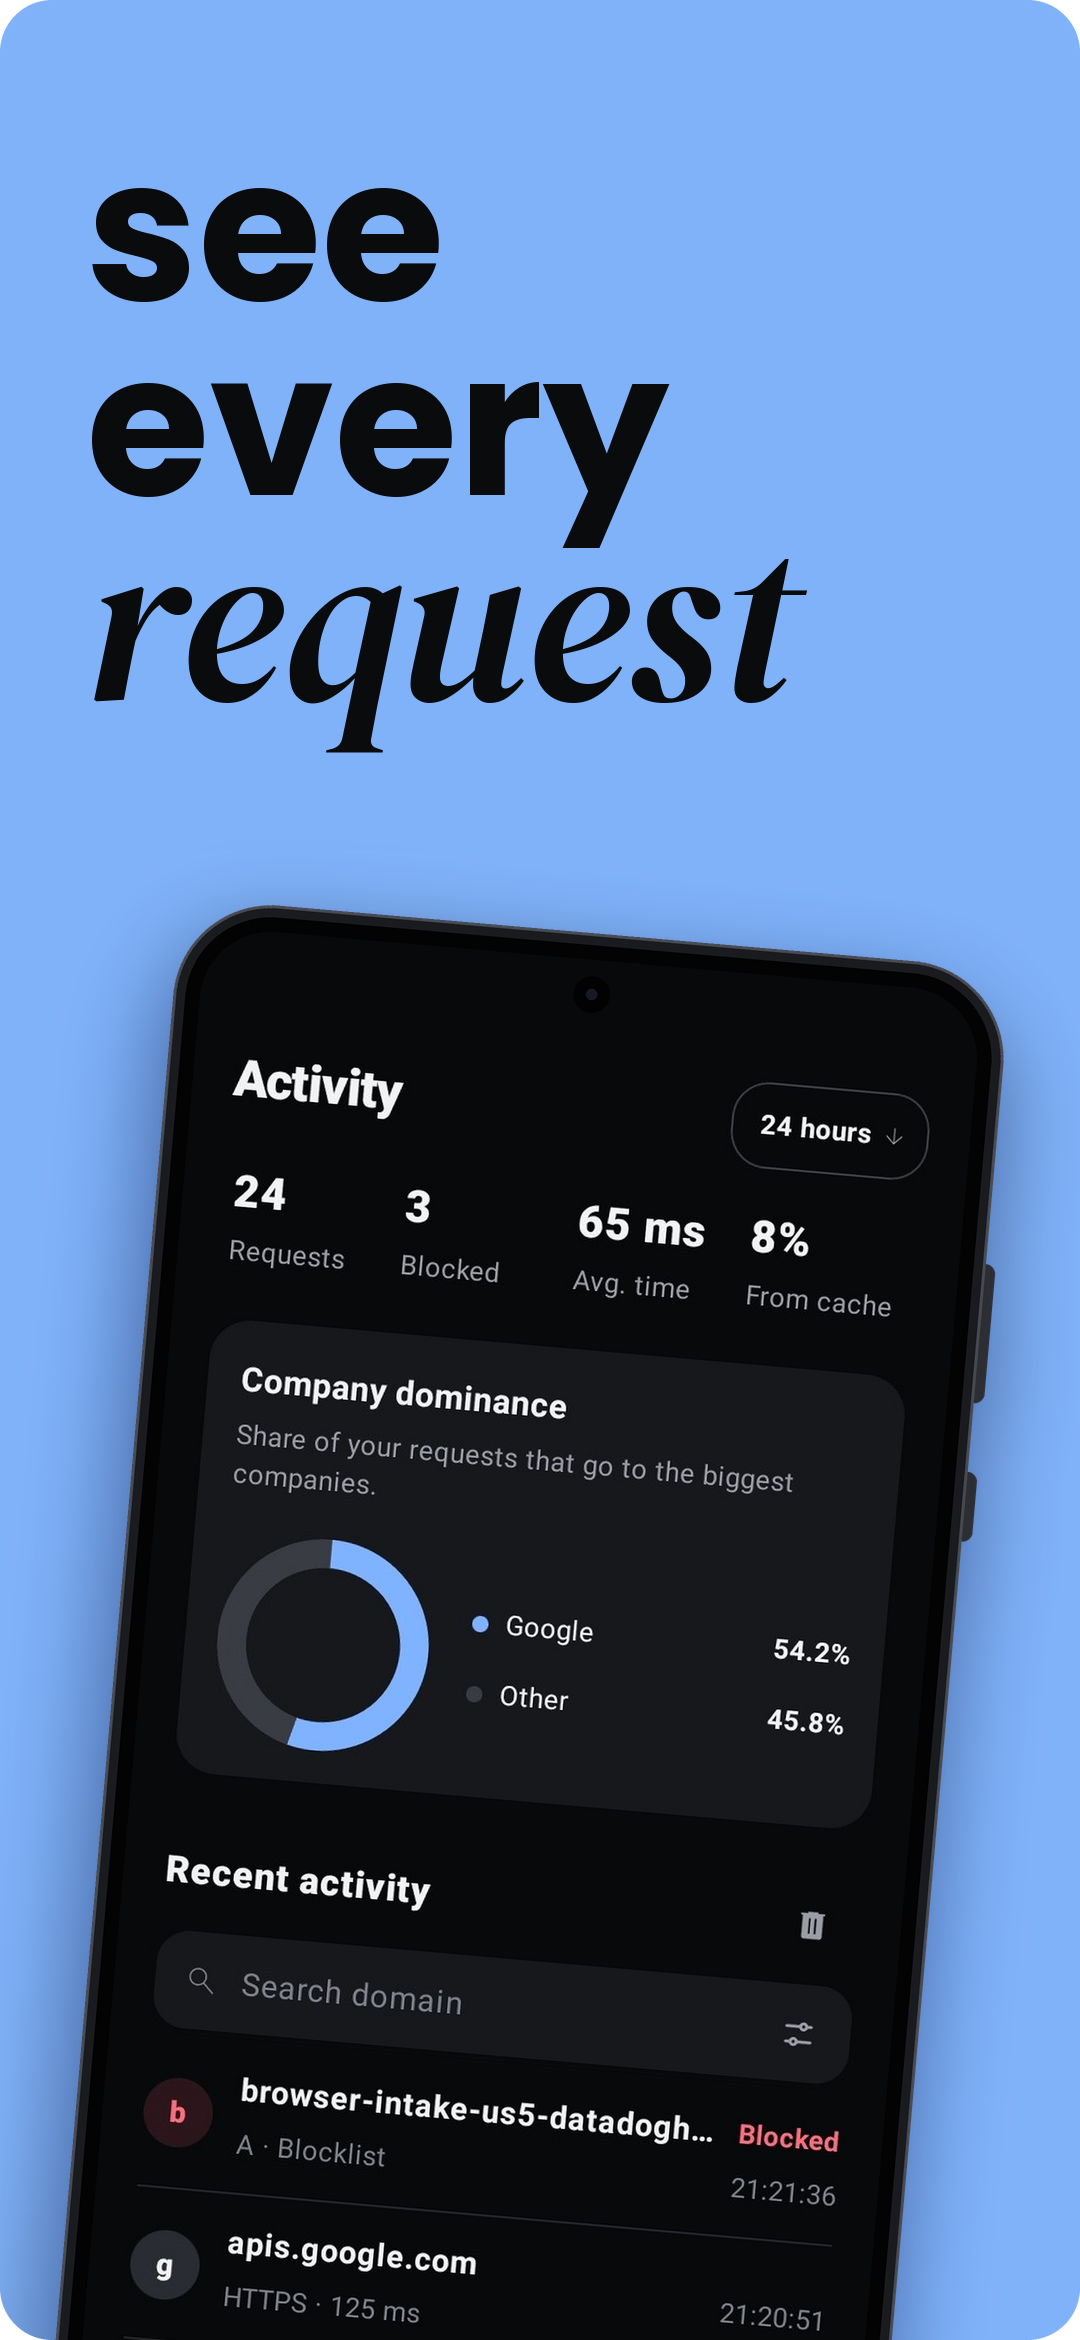
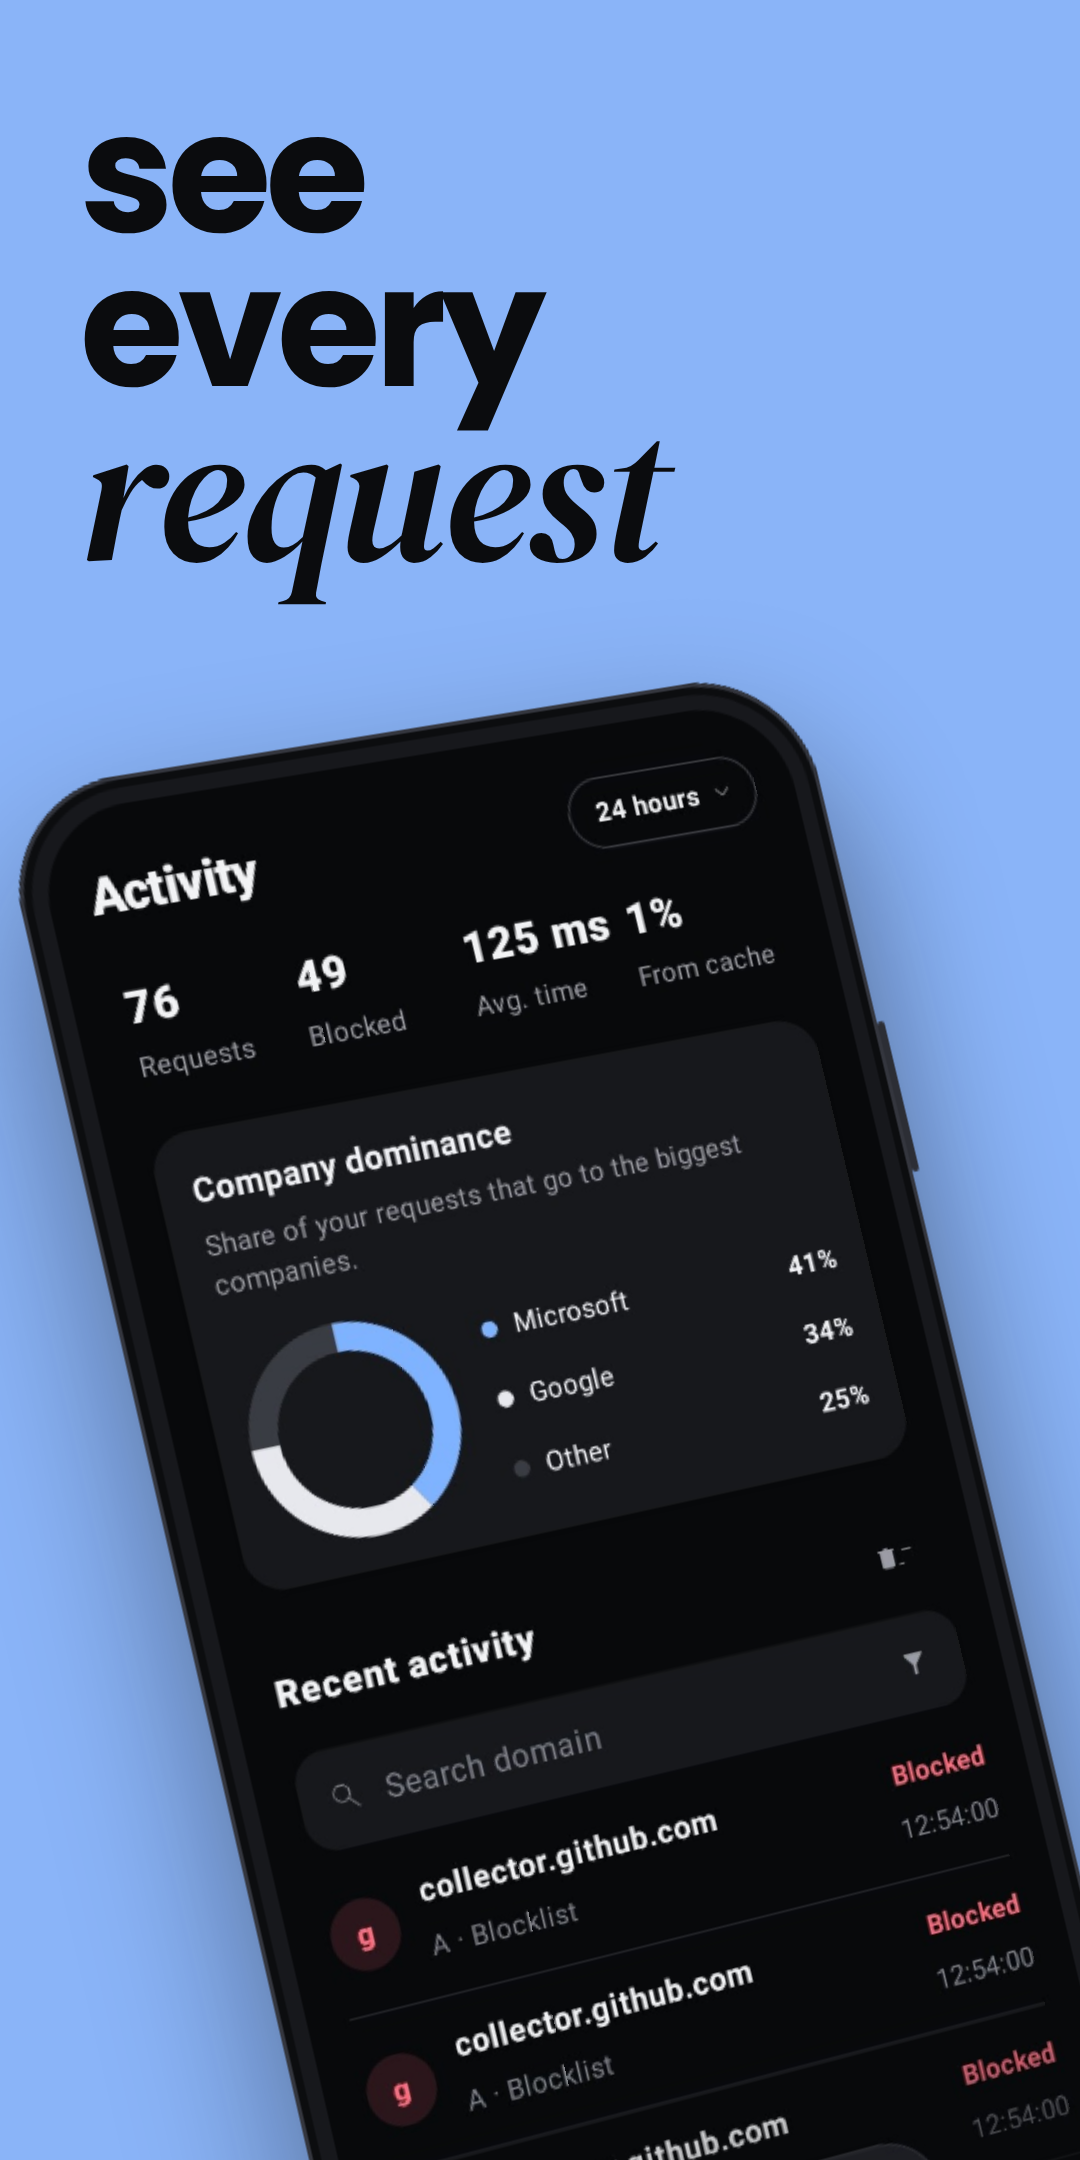
Update README screenshots

diff --git a/README.md b/README.md
@@ -21,10 +21,9 @@
 </p>
 
 <p align="center">
-  <img src="assets/screenshots/1-private-dns-control.png" width="160" alt="Private DNS control">
-  <img src="assets/screenshots/2-protected.png" width="160" alt="You're protected">
+  <img src="assets/screenshots/1-private-dns-left.png" width="160" alt="Private DNS in one tap"><img src="assets/screenshots/2-private-dns-right.png" width="160" alt="You're protected">
   <img src="assets/screenshots/3-see-every-request.png" width="160" alt="See every request">
-  <img src="assets/screenshots/4-block-more-noise.png" width="160" alt="Block more noise">
+  <img src="assets/screenshots/4-block-ads-and-trackers.png" width="160" alt="Block ads and trackers">
 </p>
 
 > [!TIP]
